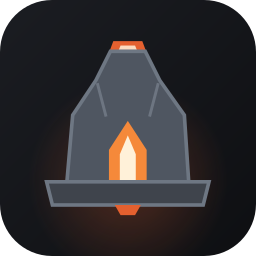
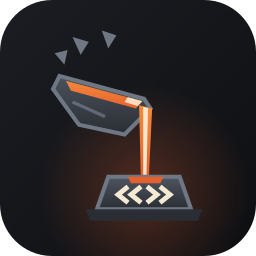
feat(assets): mark v2 — the pour: crucible, tapering stream, ingot stamped with the marker chevrons
The stamp is smelt's own wire delimiter, <<…>>, not a rune — PALETTE.md's
no-runes rule stands. Four geometry carriers and the PNGs regenerated.

Changed region(s): [[0.1562, 0.125, 0.8438, 0.875], [0.2188, 0.125, 0.3438, 0.25]]

diff --git a/assets/PALETTE.md b/assets/PALETTE.md
@@ -1,11 +1,16 @@
 # smelt — palette and marks
 
 Every colour and every mark in this repo comes from one place: a **forge**. Charcoal
-ground, iron mass, an ember mouth, a white-hot core. The Norse reading is _material_,
-not typographic — there are no runic glyphs anywhere in these files, and there will not
-be: sowilo (ᛋ) is doubled in the SS insignia and the valknut has been adopted by
-white-supremacist groups. A shape built from material and geometry also ages better
-than a glyph.
+ground, iron mass, a molten pour, a white-hot core. The mark is **the pour**: a tilted
+crucible, a stream that tapers as it falls, and a small dense ingot stamped with
+smelt's own marker delimiters, `<<` `>>` — the glyph the model actually sees in a
+smelted prompt. Big in, small out, nothing lost.
+
+The Norse reading is _material_, not typographic — there are no runic glyphs anywhere
+in these files, and there will not be: sowilo (ᛋ) is doubled in the SS insignia and the
+valknut has been adopted by white-supremacist groups. The ingot's stamp is not a rune;
+it is the library's own wire marker. A shape built from material and geometry also ages
+better than a glyph.
 
 ## Palette
 
@@ -17,7 +22,7 @@ than a glyph.
 | `iron-dark`     | `#2A2E34` | The unlit bottom of iron. Gradient stop, hairline rules.                        |
 | `iron-light`    | `#6E7783` | Keylines around iron, wordmark letters, muted text on either ground.            |
 | `slag`          | `#9AA1AC` | Secondary prose on dark.                                                        |
-| `ember`         | `#E4602F` | **The accent.** One accent, used as heat: the mouth, the flue, the bloom.       |
+| `ember`         | `#E4602F` | **The accent.** One accent, used as heat: the melt, the stream, the seam.       |
 | `forge`         | `#F5893A` | Ember's lit edge. Gradient stop and hover state only — never a fill on its own. |
 | `white-hot`     | `#FFF1D9` | The hottest 5% of any composition. Highlights, the core of the mouth.           |
 | `ash`           | `#EFEBE5` | Type on charcoal; light-mode ground.                                            |
@@ -54,7 +59,7 @@ canonical artefact for that one.
 
 The mark's geometry is duplicated in `smelt-mark.svg`, `smelt-wordmark.svg`,
 `smelt-icon.svg` and `smelt-social.svg`, because each has to stand alone as a single
-file. Change the furnace and you change four files. That is the trade for
+file. Change the pour and you change four files. That is the trade for
 self-containment; the alternative is a build step for four static images.
 
 ## Regenerating the PNGs
